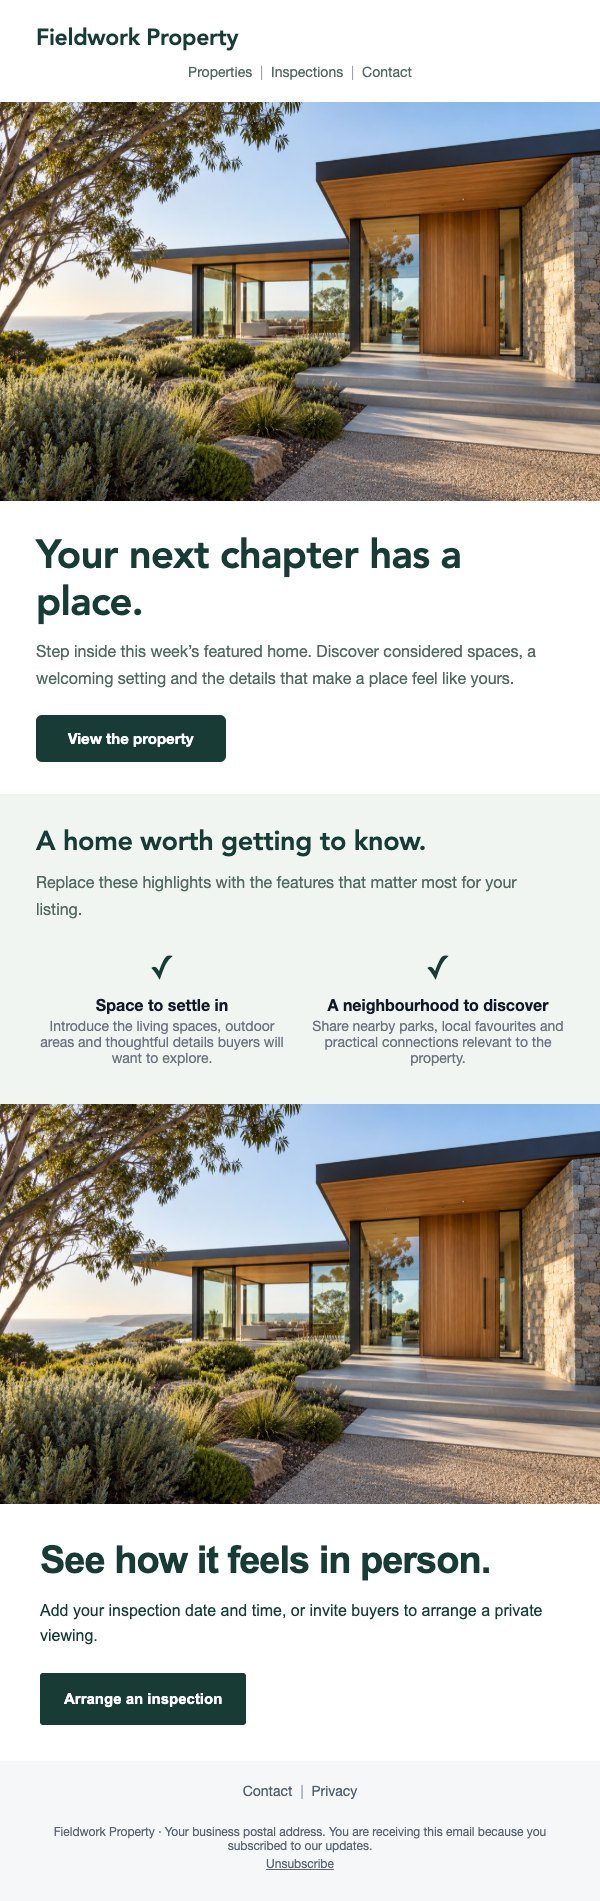
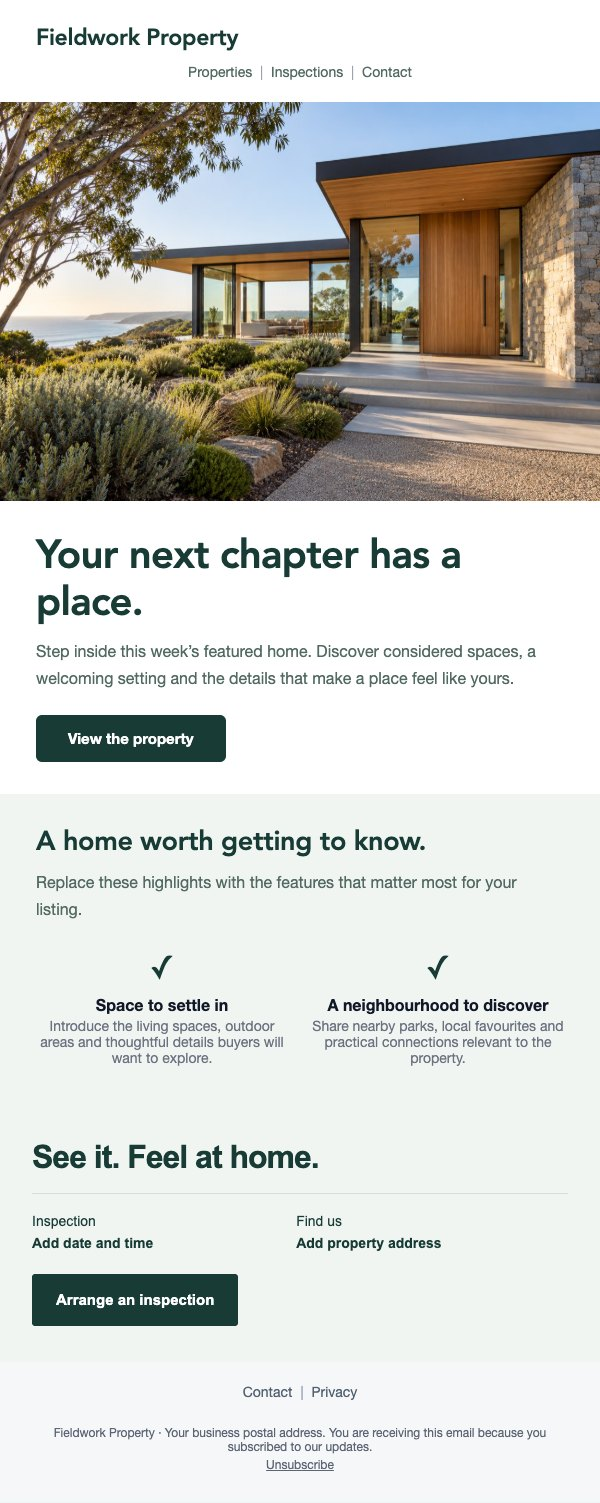
Refine campaign pacing from final design review (#741)

diff --git a/app/utils/edmOemLayouts.ts b/app/utils/edmOemLayouts.ts
@@ -46,8 +46,15 @@ export function oemDetails(title: string, rows: [string, string][], dark = false
   return oemHtml('event-details', `<tr><td class="xf-oem-pad" style="padding:36px 32px;">${oemHeading(title, ink, 30)}<table role="presentation" width="100%" cellpadding="0" cellspacing="0">${rows.map(([label, value]) => `<tr><td width="36%" valign="top" style="padding:14px 12px 14px 0;border-top:1px solid ${dark ? '#39414B' : '#DDE3E9'};font-family:${SANS};font-size:13px;line-height:1.5;color:${ink};">${esc(label)}</td><td style="padding:14px 0;border-top:1px solid ${dark ? '#39414B' : '#DDE3E9'};font-family:${SANS};font-size:15px;line-height:1.5;font-weight:600;color:${ink};">${esc(value)}</td></tr>`).join('')}</table></td></tr>`, dark ? '#101820' : '#F4F6F8')
 }
 export function oemOfferBanner() {
-  return oemHtml('retail-offer', `<tr><td class="xf-oem-pad" style="padding:38px 32px;">${oemHeading('Grand Automotive Sale Weekend', '#FFFFFF', 46)}<p style="margin:0 0 10px;font-family:${SANS};font-size:39px;line-height:1.05;font-weight:700;letter-spacing:-1px;color:#FFFFFF;">Save thousands<span style="font-size:20px;">*</span></p>${oemCopy('on selected vehicles. Discover your next drive this sale weekend.', '#FFFFFF')}${oemAction('Explore the sale', 'sale-weekend', '#FFFFFF', '#BA1B26')}</td></tr><tr><td>${oemPhoto(OEM_DRIVE_IMAGE, 'Featured SUV — replace with vehicles included in your offer')}</td></tr><tr><td style="padding:18px 32px;font-family:${SANS};font-size:12px;line-height:1.5;color:#FFFFFF;">*Example offer copy. Replace with verified savings, eligible stock and Offer conditions before sending.</td></tr>`, '#BA1B26')
+  return oemHtml('retail-offer', `<tr><td class="xf-oem-pad" style="padding:38px 32px;">${oemHeading('Grand Automotive Sale Weekend', '#FFFFFF', 46)}<p style="margin:0 0 24px;font-family:${SANS};font-size:15px;line-height:1.5;color:#FFFFFF;">[Start date]–[End date] · Your dealership</p><p style="margin:0 0 10px;font-family:${SANS};font-size:39px;line-height:1.05;font-weight:700;letter-spacing:-1px;color:#FFFFFF;">Save thousands<span style="font-size:20px;">*</span></p>${oemCopy('on selected vehicles. Discover your next drive this sale weekend.', '#FFFFFF')}${oemAction('Explore the sale', 'sale-weekend', '#FFFFFF', '#BA1B26')}</td></tr><tr><td>${oemPhoto(OEM_DRIVE_IMAGE, 'Featured SUV — replace with vehicles included in your offer')}</td></tr><tr><td style="padding:18px 32px;font-family:${SANS};font-size:12px;line-height:1.5;color:#FFFFFF;">*Example offer copy. Replace with verified savings, eligible stock and Offer conditions before sending.</td></tr>`, '#BA1B26')
 }
 export function oemVehicleCards() {
   return oemHtml('vehicle-lineup', `<tr><td class="xf-oem-pad" style="padding:32px;">${oemHeading('Find your next drive.', '#142B40', 32)}<table role="presentation" width="100%" cellpadding="0" cellspacing="0"><tr>${[['Featured SUV', OEM_DRIVE_IMAGE], ['New arrival', OEM_LAUNCH_IMAGE]].map(([title, src]) => `<td class="xf-oem-col" width="50%" valign="top" style="width:50%;padding:8px;">${oemPhoto(src!, title!, 252)}<h3 style="font-family:${SANS};font-size:20px;line-height:1.2;margin:18px 0 10px;color:#142B40;">${title}</h3>${oemCopy('Add the model, variant and offer details for this vehicle.') }<a href="${SITE}/sale-weekend" style="font-family:${SANS};font-size:14px;font-weight:700;color:#142B40;">View vehicle →</a></td>`).join('')}</tr></table></td></tr>`)
+}
+
+export function oemInspectionClose() {
+  return oemHtml('inspection-details', `<tr><td class="xf-oem-pad" style="padding:36px 32px;">${oemHeading('See it. Feel at home.', '#183C35', 32)}<table role="presentation" width="100%" cellpadding="0" cellspacing="0"><tr><td valign="top" style="padding:16px 20px 20px 0;border-top:1px solid #D6DFDA;font-family:${SANS};font-size:14px;line-height:1.6;color:#183C35;">Inspection<br><strong>Add date and time</strong></td><td valign="top" style="padding:16px 0 20px;border-top:1px solid #D6DFDA;font-family:${SANS};font-size:14px;line-height:1.6;color:#183C35;">Find us<br><strong>Add property address</strong></td></tr></table>${oemAction('Arrange an inspection', 'book-inspection', '#183C35')}</td></tr>`, '#F1F5F2')
+}
+export function oemStudioClose() {
+  return oemHtml('studio-index', `<tr><td class="xf-oem-pad" style="padding:36px 32px;">${oemHeading('Make it your time.', '#39324F', 32)}${[['Explore classes', 'Find a session that fits your day.', 'timetable'], ['Meet the studio', 'Get to know the space and the team.', 'the-studio'], ['Plan your first visit', 'What to bring and how to get here.', 'first-visit']].map(([label, copy, path]) => `<table role="presentation" width="100%" cellpadding="0" cellspacing="0" style="border-top:1px solid #D8D1E5;"><tr><td style="padding:18px 16px 18px 0;"><a href="${SITE}/${path}" style="font-family:${SANS};font-size:18px;line-height:1.35;font-weight:700;text-decoration:none;color:#39324F;">${label}</a><p style="margin:5px 0 0;font-family:${SANS};font-size:14px;line-height:1.5;color:#685F7B;">${copy}</p></td><td width="28" style="font-size:24px;color:#39324F;">→</td></tr></table>`).join('')}</td></tr>`, '#F2EFF8')
 }

diff --git a/app/utils/edmAutomotivePresets.ts b/app/utils/edmAutomotivePresets.ts
@@ -21,7 +21,7 @@ export const AUTOMOTIVE_SECTION_PRESETS: EdmSectionPreset[] = [
   section('oem-rsvp-cta', 'call-to-action', 'Confirm launch attendance', [oemHtml('attendance-action', `<tr><td class="xf-oem-pad" style="padding:36px 32px;">${oemHeading('We’d love to see you there.', '#142B40', 34)}${oemCopy('Confirm attendance and tell us how many guests will join you. Your RSVP helps our team plan the event.')}${oemAction('RSVP to the launch', 'launch-rsvp')}<div style="height:20px;line-height:20px;">&nbsp;</div>${oemCopy('Questions about the event? Contact your dealership team.')}</td></tr>`)])
 ]
 export const AUTOMOTIVE_STARTER_TEMPLATES: EdmStarterTemplate[] = [
-  { id: 'oem-launch-interest', name: 'Register your interest', description: 'An upcoming-vehicle teaser that collects expressions of interest and launch-update requests, without implying a booking or order.', industry: 'Automotive', usage: 'Announcement', style: 'Minimal', previewTone: 'dark', sectionPresetIds: ['oem-interest-header', 'oem-interest-hero', 'oem-interest-details', 'oem-interest-cta', 'oem-dealership-footer'], subject: 'Be first to hear what’s next', previewText: 'Register for vehicle launch and local arrival updates.', isNew: true },
+  { id: 'oem-launch-interest', name: 'Register your interest', description: 'An upcoming-vehicle teaser that collects expressions of interest and launch-update requests, without implying a booking or order.', industry: 'Automotive', usage: 'Announcement', style: 'Minimal', previewTone: 'dark', sectionPresetIds: ['oem-interest-header', 'oem-interest-hero', 'oem-interest-details', 'oem-dealership-footer'], subject: 'Be first to hear what’s next', previewText: 'Register for vehicle launch and local arrival updates.', isNew: true },
   { id: 'oem-sale-weekend', name: 'Grand Automotive Sale Weekend', description: 'A retail event email with example savings, vehicle cards, sale dates and editable offer conditions.', industry: 'Automotive', usage: 'Promotion', style: 'Bold', previewTone: 'light', sectionPresetIds: ['oem-sale-header', 'oem-sale-hero', 'oem-sale-vehicles', 'oem-sale-details', 'oem-dealership-footer'], subject: 'Your Grand Automotive Sale Weekend', previewText: 'Explore selected vehicles and your dealership’s sale-weekend offers.', isNew: true },
   { id: 'oem-launch-rsvp', name: 'Vehicle Launch RSVP', description: 'A dealership vehicle-reveal invitation with event date, time, venue, guest details and an attendance RSVP action.', industry: 'Automotive', usage: 'Event', style: 'Minimal', previewTone: 'dark', sectionPresetIds: ['oem-rsvp-header', 'oem-rsvp-hero', 'oem-rsvp-details', 'oem-rsvp-cta', 'oem-dealership-footer'], subject: 'You’re invited to our vehicle launch', previewText: 'Join your dealership for a first look. RSVP with your guest details.', isNew: true }
 ]

diff --git a/app/utils/edmModernPresets.ts b/app/utils/edmModernPresets.ts
@@ -2,7 +2,7 @@
 // FuturaX and Aviro. This catalog deliberately contains no legacy starter IDs.
 import type { EdmPresetBlockTemplate, EdmSectionPreset, EdmStarterTemplate } from '~~/app/utils/edmPresets'
 import type { EdmFlyhubBlock } from '~~/app/types/edm'
-import { oemSplit, oemPoster, OEM_IMAGES, OEM_DRIVE_IMAGE } from '~~/app/utils/edmOemLayouts'
+import { oemSplit, oemInspectionClose, oemStudioClose, OEM_IMAGES, OEM_DRIVE_IMAGE } from '~~/app/utils/edmOemLayouts'
 import { featureRow, navMenu, richFooter } from '~~/app/utils/edmSectionBuilders'
 
 export const MODERN_EDM_SECTION_IDS = [
@@ -89,9 +89,9 @@ function cta(theme: Theme, title: string, copy: string, label: string, path: str
   const common = { title, copy, action: label, path }
   switch (theme.brand) {
     case 'Northline Motors': return [oemSplit({ ...common, title: 'Your next drive starts here.', image: OEM_DRIVE_IMAGE, alt: 'Kia EV9 outside a contemporary building', bg: '#F0F4F7' })]
-    case 'Fieldwork Property': return [oemPoster({ ...common, image: OEM_IMAGES.property, alt: 'Contemporary home and native landscaping', bg: '#FFFFFF', ink: '#183C35', accent: '#183C35' })]
+    case 'Fieldwork Property': return [oemInspectionClose()]
     case 'Tide House': return [oemSplit({ ...common, image: OEM_IMAGES.hospitality, alt: 'Breakfast on a coastal terrace', reverse: true, bg: '#F6F3ED', ink: '#153B43', accent: '#153B43' })]
-    case 'Forma Studio': return [oemPoster({ ...common, image: OEM_IMAGES.wellness, alt: 'Light-filled Pilates studio', bg: '#F2EFF8', ink: '#39324F', accent: '#39324F' })]
+    case 'Forma Studio': return [oemStudioClose()]
     default: return [oemSplit({ ...common, image: OEM_IMAGES.services, alt: 'Plans and material samples in an architectural workspace', reverse: true, bg: '#182E49', ink: '#FFFFFF', accent: '#FFFFFF', buttonInk: '#182E49' })]
   }
 }

diff --git a/test/utils/edmOemCampaigns.test.ts b/test/utils/edmOemCampaigns.test.ts
@@ -26,11 +26,13 @@ describe('OEM-informed dealership campaigns', () => {
     const rsvp = renderTemplateDocumentLocally(buildStarterTemplateDocument('oem-launch-rsvp'))
     expect(interest).toContain('launch updates')
     expect(interest).not.toContain('Confirm attendance')
+    expect((interest.match(/>Register your interest<\/a>/g) || []).length).toBe(1)
     for (const term of ['Event date', 'Event time', 'Dealership address', 'RSVP by', 'Confirm attendance']) expect(rsvp).toContain(term)
   })
   it('provides example savings and offer conditions without inventing prices or scarcity', () => {
     const html = renderTemplateDocumentLocally(buildStarterTemplateDocument('oem-sale-weekend'))
     for (const term of ['Save thousands', 'selected vehicles', 'Offer start', 'Offer end', 'Offer conditions']) expect(html).toContain(term)
+    expect(html).toContain('[Start date]')
     expect(html).not.toMatch(/\$[0-9]|Only [0-9]+ left|Guaranteed finance/)
   })
   it('refreshes the repetitive CTA modules with image-led, structurally varied layouts', () => {
@@ -38,13 +40,15 @@ describe('OEM-informed dealership campaigns', () => {
     const modules = EDM_SECTION_CATEGORIES.flatMap(c => c.presets).filter(s => ids.includes(s.id))
     expect(modules).toHaveLength(5)
     const variants = new Set<string>()
+    let imageLed = 0
     for (const module of modules) {
       const html = JSON.stringify(module.blocks)
-      expect(html).toContain('<img')
+      if (html.includes('<img')) imageLed++
       const layout = html.match(/data-edm-layout=\\"([^\\]+)\\"/)?.[1]
       expect(layout).toBeTruthy()
       variants.add(layout!)
     }
-    expect(variants.size).toBeGreaterThanOrEqual(3)
+    expect(imageLed).toBeGreaterThanOrEqual(3)
+    expect(variants.size).toBeGreaterThanOrEqual(4)
   })
 })

diff --git a/app/components/email/TemplatesPanel.vue b/app/components/email/TemplatesPanel.vue
@@ -138,7 +138,7 @@ const filteredStarters = computed(() => {
 })
 
 function starterPreviewImageUrl(starterId: string): string {
-  return `/email/template-previews/${starterId}.jpeg?v=20261029-oem2`
+  return `/email/template-previews/${starterId}.jpeg?v=20261029-oem3`
 }
 
 // ── Rename ──────────────────────────────────────────────────────────────────

diff --git a/docs/design/2026-10-29-oem-email-modules.md b/docs/design/2026-10-29-oem-email-modules.md
@@ -42,3 +42,5 @@ Confirmed deletes remove the card locally and update computed counts immediately
 Focused tests cover complete starter rendering, CTA destinations, interest/RSVP distinction, sale conditions, sender identity gating, editable layouts, font parity, deletion success/failure and repeat-submission protection, and saved preview framing. Desktop/mobile browser checks verify image loading and no 375px overflow. Original previews require visual inspection of the top content, not merely HTTP 200. Hosted acceptance must additionally check all eleven gallery cards, saved-template preview geometry, stateless renderer output, disposable-template deletion without reloading, and established QR Codes navigation. Do not send real campaign emails for these checks.
 
 Preview regeneration: `pnpm exec tsx --tsconfig .nuxt/tsconfig.server.json scripts/email-template-previews.ts`. It uses local checked-out assets, captures the 600px email element, rejects broken images, and records dimensions in `.nuxt/email-template-preview-evidence.json`.
+
+Final review refinements: the interest starter uses one registration action (the closing registration module remains optional). Property closes with inspection details rather than a repeated hero poster; wellness closes with a linked studio index. The sale header carries editable start/end dates beside its title. These changes address Kimi’s concrete repetition findings while preserving the approved original designs.
